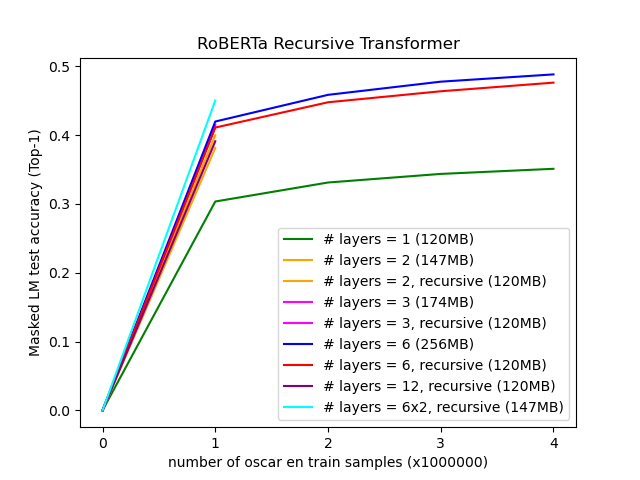
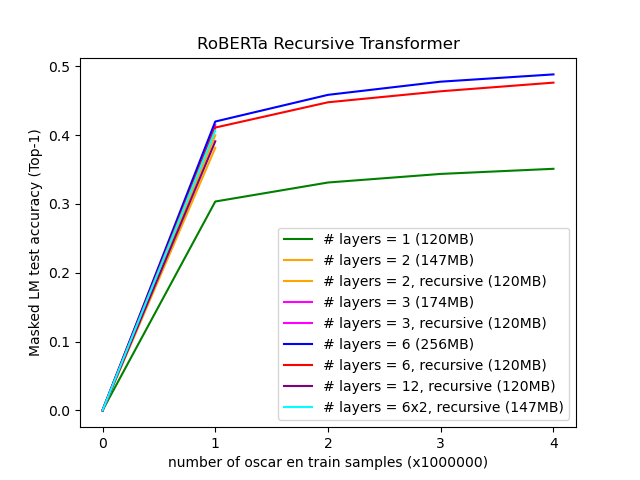
update graph RobertaRecursiveTransformerSegregatedLayers - normalise transformerSegregatedLayers results for original test codebase

Changed region(s): [[0.2188, 0.2188, 0.3438, 0.6562], [0.1875, 0.6562, 0.2188, 0.75], [0.1562, 0.75, 0.1875, 0.8438]]

diff --git a/graph/RobertaRecursiveTransformerSegregatedLayers.py b/graph/RobertaRecursiveTransformerSegregatedLayers.py
@@ -10,7 +10,7 @@ y5 = np.array([0, 0.4117909865605831, np.nan, np.nan, np.nan])
 y6 = np.array([0, 0.4195622387599945, 0.45833434972524645, 0.477471009747982, 0.4880324535870552])
 y7 = np.array([0, 0.4107974250018597, 0.44753125154256823, 0.46352191767930984, 0.4760648959302902])
 y8 = np.array([0, 0.39083645319104193, np.nan, np.nan, np.nan])
-y9 = np.array([0, 0.45005820715427397, np.nan, np.nan, np.nan])
+y9 = np.array([0, 0.4066971323907375, np.nan, np.nan, np.nan])
 
 l1, = plt.plot(x, y1, color='green', label='# layers = 1 (120MB)')
 l2, = plt.plot(x, y2, color='orange', label='# layers = 2 (147MB)')

diff --git a/README.md b/README.md
@@ -31,3 +31,23 @@ pip install pynvml
 source activate transformersenv
 python SBNLPpt_main.py
 ```
+
+## recursiveLayers
+
+![recursiveLayers1a.drawio.png](https://github.com/bairesearch/TSBpt/blob/master/graph/recursiveLayers1a.drawio.png?raw=true)
+
+![RobertaRecursiveTransformer.png](https://github.com/bairesearch/TSBpt/blob/master/graph/RobertaRecursiveTransformer.png?raw=true)
+
+![RobertaRecursiveTransformerLayers.png](https://github.com/bairesearch/TSBpt/blob/master/graph/RobertaRecursiveTransformerLayers.png?raw=true)
+
+## transformerSegregatedLayers
+
+![transformerSegregatedLayers1a.drawio.png](https://github.com/bairesearch/TSBpt/blob/master/graph/transformerSegregatedLayers1a.drawio.png?raw=true)
+
+![RobertaRecursiveTransformerSegregatedLayers.png](https://github.com/bairesearch/TSBpt/blob/master/graph/RobertaRecursiveTransformerSegregatedLayers.png?raw=true)
+
+## tokenMemoryBank
+
+![tokenMemoryBank1a.drawio.png](https://github.com/bairesearch/TSBpt/blob/master/graph/tokenMemoryBank1a.drawio.png?raw=true)
+
+
